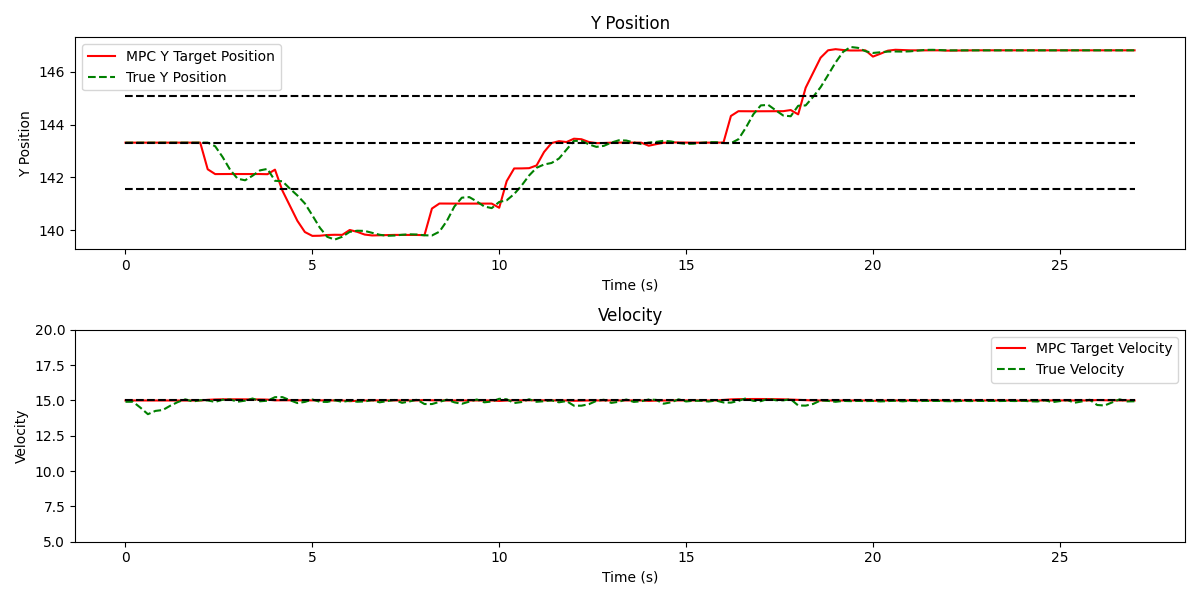
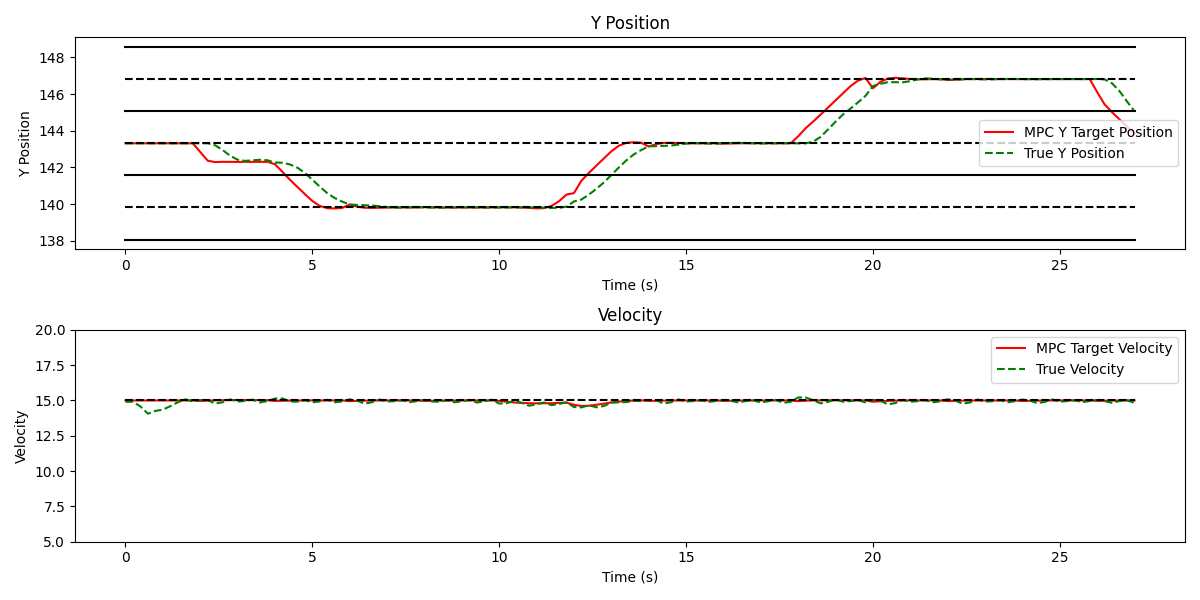
update the readme

diff --git a/vehicleModel/vehicle_model.py b/vehicleModel/vehicle_model.py
@@ -26,7 +26,7 @@ class car_VehicleModel(vehBicycleKinematic):
     x = [p_x p_y v_x theta]
     u = [steer_ang, acc_v]
     """
-    def __init__(self,dt,N, width = 2.54, length = 10, scaling = [0.1,1,1,1,1]):
+    def __init__(self,dt,N, width = 2.89, length = 10, scaling = [0.1,1,1,1,1]):
         self.name = "Truck_bicycle"
         self.laneCenters = 143.318146
         self.laneWidth = 3.5
@@ -38,13 +38,13 @@ class car_VehicleModel(vehBicycleKinematic):
         self.dt = dt                    # Time step
         self.N = N
         # Standard choices for reference and initialization
-        self.x_init = [0,0,45/3.6,0]
+        self.x_init = [0,0,54/3.6,0]
         self.p = self.x_init[:2]
         self.v = self.x_init[2]
         
-        self.refxT = [0,0,60/3.6,0]
-        self.refxL = [0,0,60/3.6,0]
-        self.refxR = [0,0,60/3.6,0]
+        self.refxT = [0,0,54/3.6,0]
+        self.refxL = [0,0,54/3.6,0]
+        self.refxR = [0,0,54/3.6,0]
 
         # System model variables
         self.x = SX.sym('x',self.nx)             # self.x = [p_x p_y v_x v_y]
@@ -52,6 +52,7 @@ class car_VehicleModel(vehBicycleKinematic):
 
         self.refx = SX.sym('refx',self.nx)
         self.refu = SX.sym('refu',self.nu)
+       
         
         # This should really change based on scenario
         if self.x_init[1] > 143.318146+self.laneWidth/2:
@@ -65,9 +66,12 @@ class car_VehicleModel(vehBicycleKinematic):
         self.width = width
         self.ego_width = width
         self.length = length
-        self.L_tract = 8.54                # ! in the simulation, only have the tractor
+        self.L_tract = 8.46                # ! in the simulation, only have the tractor
         self.L_trail = self.length-self.L_tract
         self.WB = 6                   # [m] Wheel base
+        self.lr = self.WB/2
+        self.lf = self.WB/2
+        self.integrator('rk',self.dt)
         
         # Energy efficiency parameters
         self.Cd = 0.31                  # []
@@ -77,7 +81,7 @@ class car_VehicleModel(vehBicycleKinematic):
         self.C_roll = 0.005             # []
         self.r_whl = 0.056              # [m]
 
-    
+        
     
     #! rewrite the model from vehBicycleKinematic to car_VehicleModel
     def model(self):
@@ -92,9 +96,30 @@ class car_VehicleModel(vehBicycleKinematic):
         self.dx = dx
         return {'x':self.x,'p':self.u,'ode':dx}
     
-    def integrator(self,opts,dt):
+    def model_cog(self):
+        # System dynamics model
+        # x = [x_a y_a v_vx theta]
+        # u = [steer acc]
+        # dp_xb = v* cos(beta + theta)
+        # dp_xb = v* sin(beta + theta)
+        # v_dot = a
+        # dtheta = v*tan(delta)*cos(beta)/L
+        #tan(beta) = Lr/(Lr+Lf)*tan(delta)
+        beta = atan(self.lr/(self.lr+self.lf)*tan(self.u[0]))
+        dp_xb = self.x[2] *cos(beta+self.x[3])
+        dp_yb = self.x[2] * sin(beta+self.x[3]) 
+        dv_x = self.u[1]
+        dtheta = self.x[2] / self.WB* tan(self.u[0])
+        dx = vertcat(dp_xb,dp_yb,dv_x,dtheta)
+        self.dx_cog = dx
+        return {'x':self.x,'p':self.u,'ode':dx}
+        
+    
+    def integrator(self,opts,dt,cog=True):
         self.dt = dt
         ode = self.model()
+        if cog:
+            ode = self.model_cog()
         if opts == 'rk':
             int_opts = {'simplify':True,'number_of_finite_elements': 4}
         else:
@@ -121,7 +146,7 @@ class car_VehicleModel(vehBicycleKinematic):
         return lower, upper
     
     #! this is the function to calculate the linear and discrete time dynamic model using casadi symbolic
-    def calculate_AB(self, dt_sim=0.2,init_flag=False):
+    def calculate_AB(self, dt_sim=0.2, init_flag=False):
         """Calculate the A and B matrix for the linearized system
 
         Args:
@@ -131,6 +156,7 @@ class car_VehicleModel(vehBicycleKinematic):
             newA: linearized A matrix
             newB: linearized B matrix
         """
+        dt_sim=self.dt
         #! rewrite the calculate_AB from vehBicycleKinematic to car_VehicleModel
         # # Define state and control symbolic variables
         # Get the state dynamics from the kinematic car model
@@ -160,9 +186,44 @@ class car_VehicleModel(vehBicycleKinematic):
 
         return newA, newB,newG
     
+    def calculate_AB_cog(self):
+        """Calculate the A and B matrix for the linearized system
+
+        Returns:
+            newA: linearized A matrix
+            newB: linearized B matrix
+        """
+        #! rewrite the calculate_AB from vehBicycleKinematic to car_VehicleModel
+        # # Define state and control symbolic variables
+        # Get the state dynamics from the kinematic car model
+        state_dynamics = self.dx_cog
+        # Calculate the Jacobians for linearization
+        A = jacobian(state_dynamics, self.x)
+        B = jacobian(state_dynamics, self.u)
+        # Create CasADi functions for the linearized matrices
+        f_A = Function('A', [self.x, self.u], [A])
+        f_B = Function('B', [self.x, self.u], [B])
+        #set the operating point
+        # x_op=[0, 0, 54/3.6, 0]
+        # u_op=[0,0]
+        # if self.state exits use self state, otherwise use the initial state
+        x_op = [0,0,15,0]
+        u_op=[0,0]
+        # Evaluate the Jacobians at the operating point
+        A_op = f_A(x_op, u_op)
+        B_op = f_B(x_op, u_op)
+        g_op= DM([0,0,0.0,0])
+
+        # Discretize the linearized matrices
+        newA = A_op * self.dt + np.eye(self.nx)
+        newB = B_op * self.dt
+        newG=  g_op * self.dt
+        return newA, newB,newG
+    
+    
     
     #! this is the function to calculate the linear and discrete time dynamic model
-    def vehicle_linear_discrete_model(self, v=15, phi=0, delta=0):
+    def vehicle_linear_discrete_model(self, v=15, phi=0, delta=0, cog=True):
         """
         Calculate linear and discrete time dynamic model.
         """
@@ -181,6 +242,10 @@ class car_VehicleModel(vehBicycleKinematic):
                 -self.dt * v * np.cos(phi) * phi,
                 0.0,
                 -self.dt * v * delta / (self.WB * np.cos(delta) ** 2)])
+        
+        #! open here to get the cog model
+        if cog:
+            A_d, B_d, g_d = self.calculate_AB_cog()
         
         return A_d, B_d, g_d
     

diff --git a/util/utils.py b/util/utils.py
@@ -209,7 +209,7 @@ def getTotalCost(L,Lf,x,u,refx,refu,N):
     cost += Lf(x[:,N],refx[:,N])
     # add penalty to the change of the change of the u
     for i in range(N-1):
-        cost += 1e2*(u[:,i+1]-u[:,i]).T@(u[:,i+1]-u[:,i])
+        cost += 5e2*(u[:,i+1]-u[:,i]).T@(u[:,i+1]-u[:,i])
     return cost
 
 def getSlackCost(Ls,slack):
@@ -466,9 +466,13 @@ def plot_mpc_y_vel(y_mpc, vel_mpc, y_true, vel_true, figure_dir, figure_name):
     axs[0].plot(time_array, y_true, 'g--', label='True Y Position')
     # center line
     axs[0].plot(time_array, [143.318146]*len(time_array), 'k--')
+    axs[0].plot(time_array, [143.318146+3.5]*len(time_array), 'k--')
+    axs[0].plot(time_array, [143.318146-3.5]*len(time_array), 'k--')
     # road boundary
-    axs[0].plot(time_array, [143.318146 - 1.75]*len(time_array), 'k--')
-    axs[0].plot(time_array, [143.318146 + 1.75]*len(time_array), 'k--')
+    axs[0].plot(time_array, [143.318146 - 1.75]*len(time_array), 'k')
+    axs[0].plot(time_array, [143.318146 + 1.75]*len(time_array), 'k')
+    axs[0].plot(time_array, [143.318146 - 1.75-3.5]*len(time_array), 'k')
+    axs[0].plot(time_array, [143.318146 + 1.75+3.5]*len(time_array), 'k')
     axs[0].set_title('Y Position')
     axs[0].set_xlabel('Time (s)')
     axs[0].set_ylabel('Y Position')

diff --git a/Mid_Term_Test/test_complex_env_makeController.py b/Mid_Term_Test/test_complex_env_makeController.py
@@ -53,7 +53,7 @@ truck = traffic.getEgo()  # get the ego vehicle
 
 ## ! -----------------------------------initialize the local controller-----------------------------------------
 local_controller = VehiclePIDController(truck, 
-                                        args_lateral = {'K_P': 1.2, 'K_I': 0, 'K_D': 0.5, 'dt': dt_PID}, 
+                                        args_lateral = {'K_P': 1.2, 'K_I': 0.2, 'K_D': 0.5, 'dt': dt_PID}, 
                                         args_longitudinal = {'K_P': 1.95, 'K_I': 0.05, 'K_D': 0.5, 'dt': dt_PID})
 
 '''The following code is to test the controller with the carla environment'''

diff --git a/README.md b/README.md
@@ -84,14 +84,19 @@ Here is the right lane change result:
 <p float="left">
   <img src="Figure/MPC_PID_LC.gif" width="85%" /> 
 </p>   
-<p float="left">
+<!-- <p float="left">
   <img src="Figure/MPC_PID_LC.png" width="85%" /> 
+</p>    -->
+
+## 2024/03/19 QunZhang
+Here is the decision master result:
+<p float="left">
+  <img src="Figure/CARLA_simulationn_Make_Controller_TEST_ref.png" width="85%" /> 
 </p>   
-
-## 2024/03/07 QunZhang
-remember to change the cost func and the slack of the controlller!!!!
-
-## 2024/03/15 QunZhang
+<p float="left">
+  <img src="Figure/CARLA_simulation_Make_Controller_TEST.png" width="85%" /> 
+</p>   
+## 2024/03/19 QunZhang
 TODO List: 
 ```
 1. tunning the controller
